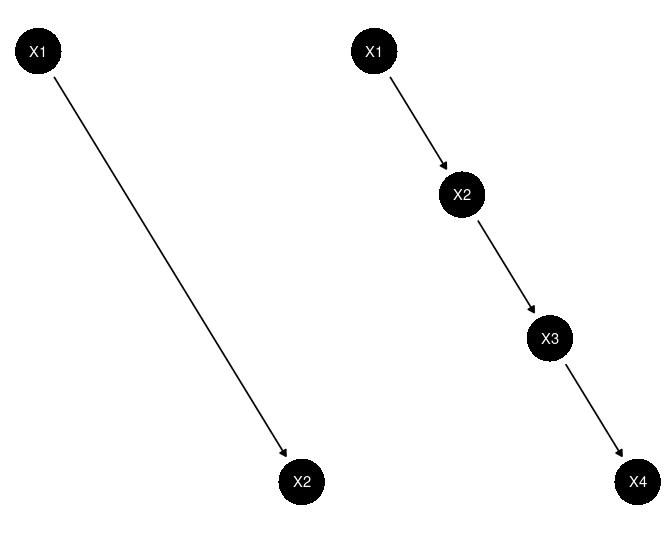
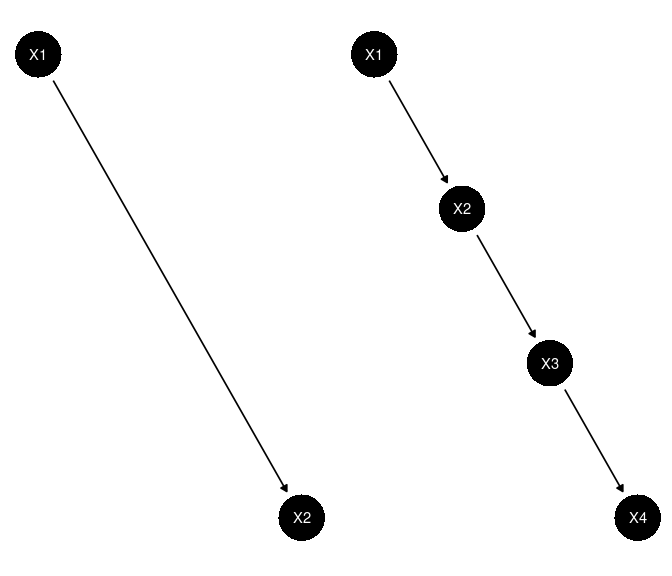
updated readme

diff --git a/README.md b/README.md
@@ -82,12 +82,12 @@ the model described by the following DAG. It alone has \~4 Billion
 nodal- and \~8796 Billion causal-types, as well as a myriad of further
 parameters attached to both.
 
-<img src="man/figures/README-unnamed-chunk-3-1.png" width="50%" height="55%" style="display: block; margin: auto;" />
+<img src="man/figures/README-unnamed-chunk-3-1.png" width="90%" height="90%" style="display: block; margin: auto;" />
 
 The simple fact that a binary node’s set of nodal-types grows as a
 function of its number of parents $k$ by $2^{(2^k)}$ and that a model’s
 set of causal-types is the product of its component nodal-types
-$\prod_{i = 1}^{i = nodes} |types_i|$, means that certain theories
+$$\prod_{i = 1}^{i = nodes} |types_i|$$, means that certain theories
 quickly become impossible to represent and operate on as causal
 models.  
 Simply storing all nodal-types on $Y$ would require \~94 GB of memory.
@@ -104,19 +104,19 @@ Encoding large causal models with `CausalQueries` requires a restriction
 of the nodal type space via monotonicity and no interaction assumptions.
 `CausalQueriesTools` provides the `make_simple_model()` function to this
 end. This effectively reverses the standard `CausalQueries` workflow of
-`make_model` $\longrightarrow$ `restrict_model` by creating nodal-types
-consistent with the above assumptions and attaching them to the model.
-`CausalQueriesTools` further allows adding interactions of arbitrary
-order on any node back into monotonistic, non-interacted models via the
-`interact_model()` function. This method exploits the fact that
-interaction nodal-types can be generated from monotonistic,
+`make_model()` $\longrightarrow$ `restrict_model()` by creating
+nodal-types consistent with the above assumptions and attaching them to
+the model. `CausalQueriesTools` further allows adding interactions of
+arbitrary order on any node back into monotonistic, non-interacted
+models via the `interact_model()` function. This method exploits the
+fact that interaction nodal-types can be generated from monotonistic,
 non-interacted nodal-types by applying logical AND and OR operations to
 their component digits. In a monotonistic, non-interacted model
 described by the DAG $X \rightarrow Y; Z \rightarrow Y$, $Y$ has
 nodal-types $\{0000,0101,0011,1111\}$ with $\{0101,0011\}$ describing
 monotonic effects. Generating an interaction of $X$ and $Z$ on $Y$ can
-be accomplished by performing $0101 AND 0011 = 0001$ and
-$0101 OR 0011 = 0111$, yielding the nodal-type set
+be accomplished by performing $0101 \text{ AND } 0011 = 0001$ and
+$0101 \text{ OR } 0011 = 0111$, yielding the nodal-type set
 $\{0000,0101,0011,0001,0111,1111\}$ on $Y$.
 
 <a name="updating"></a>
@@ -138,19 +138,19 @@ $$P(X) = \prod_{i = 1}^n P(X_i | PARENT_i)$$ Every node is independent
 of its non-descendants given its parents. The following DAG can thus be
 factorized like so:
 
-<img src="man/figures/README-unnamed-chunk-4-1.png" width="50%" height="55%" style="display: block; margin: auto;" />
+<img src="man/figures/README-unnamed-chunk-4-1.png" width="90%" height="50%" style="display: block; margin: auto;" />
 
 $P(X)=P(X)P(M_1|X)P(M_2|X)P(Y|M_1,M_2)P(Z|Y)$. This means we can split
 it into the following sub-DAGs.
 
-<img src="man/figures/README-unnamed-chunk-5-1.png" width="50%" height="55%" style="display: block; margin: auto;" />
+<img src="man/figures/README-unnamed-chunk-5-1.png" width="90%" height="50%" style="display: block; margin: auto;" />
 
 Instead of updating a full model using standard `CausalQueries`
-`update_model()`, `update_stitch` can thus update its much simpler
+`update_model()`, `update_stitch()` can thus update its much simpler
 component sub-models and ‘stitch’ the posteriors back together. Using
 this process, model updating run-time no longer grows exponentially with
 model size, but rather linearly with respect to the average complexity
-of component sub-models. We were able to further optimize run-time by
+of component sub-models. We are able to further optimize run-time by
 implementing nested futures evaluation for parallel processing. Nested
 parallelism allows `update_stitch()` update sub-models in parallel while
 also running markov chains within each sub-model in parallel. Given a
@@ -286,14 +286,14 @@ To illustrate the above points on the performance gains derived through
 model splitting, we benchmark `update_model()` and `update_stitch()` on
 updating models of increasing size with data consisting of 1000
 observations. Models are simple causal chains with 2 to 7 nodes. We
-update each models 10 times using each function and present average
+update each model 10 times using each function and present average
 run-times. We run 4 markov chains in parallel for both `update_model()`
 and `update_stitch()`, with `update_stitch()` further parallelising
 across sub-models.
 
-<img src="man/figures/README-unnamed-chunk-8-1.png" width="50%" height="55%" style="display: block; margin: auto;" />
+<img src="man/figures/README-unnamed-chunk-8-1.png" width="90%" height="50%" style="display: block; margin: auto;" />
 
-<img src="man/figures/README-unnamed-chunk-9-1.png" width="100%" style="display: block; margin: auto;" />
+<img src="man/figures/README-unnamed-chunk-9-1.png" width="90%" height="50%" style="display: block; margin: auto;" />
 
 <a name="querying"></a>
 
